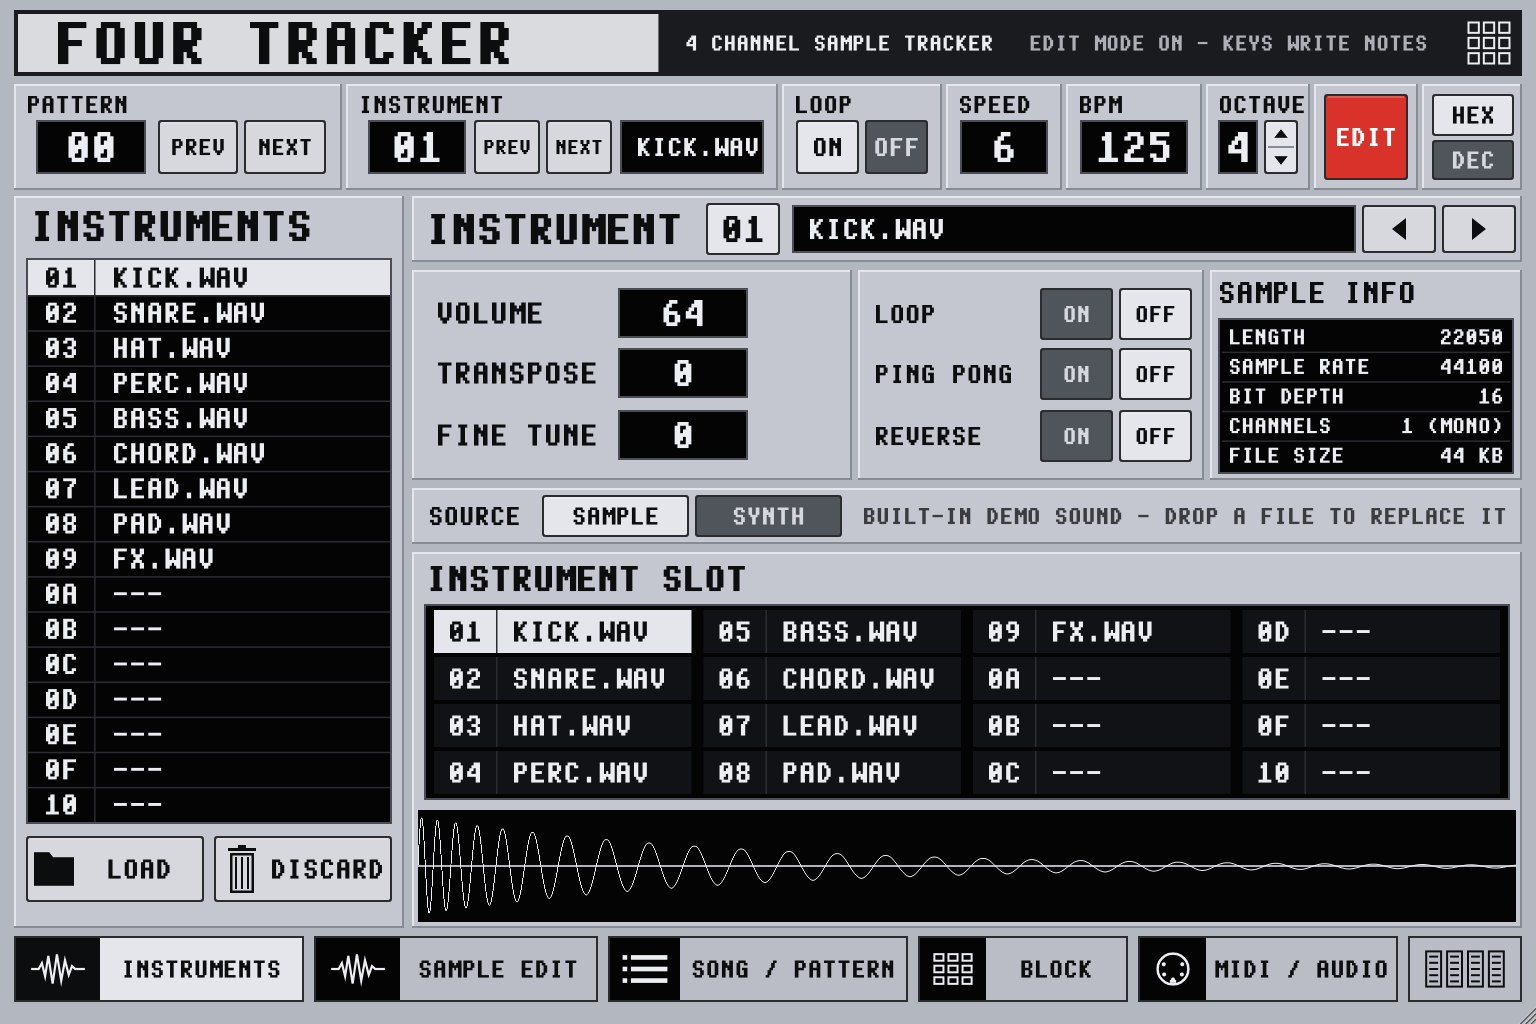
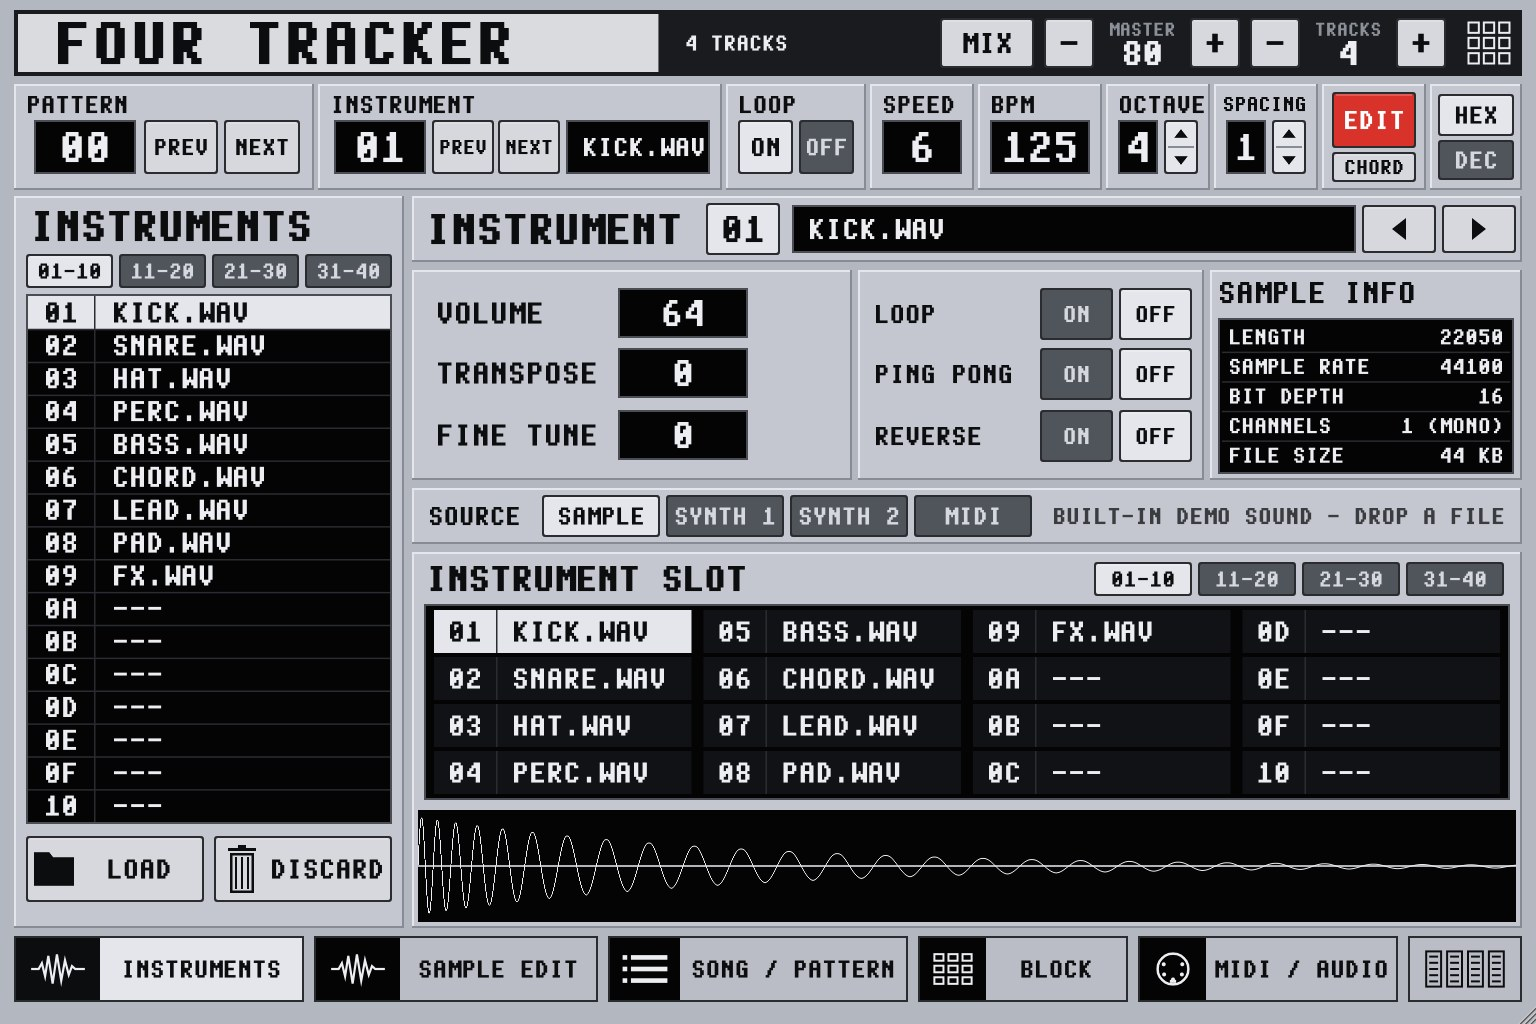
Add files via upload

Changed region(s): [[0.0312, 0.0, 0.9688, 0.1875], [0.0, 0.25, 0.2812, 0.7812], [0.375, 0.4688, 1.0, 0.5938]]

diff --git a/index.html b/index.html
@@ -392,7 +392,7 @@ footer .wrap { display: grid; gap: 8px; }
             <span class="cell">ENTER &nbsp;WRITE AT CURSOR</span>
             <span class="cell">POP OUT &nbsp;CHART WINDOW</span>
           </div>
-          <p><b>Also new:</b> the optional <a href="#pattern-maker">PATTERN MAKER</a> (beats, basslines and arps for LOAD PATTERN) and <a href="#pattern-maker">PATTERN MANAGER</a> (a whole song from a list of patterns, no DAW needed), a 16-track MIXER (Shift+M or MIX) with peak meters, CLIP lamps that light when a track goes into the red, and a fader for every track. SAVE on Sample Edit saves a sample as WAV or AIFF (your MIX and RE-SAMPLE loops, with their loop points), and the sample pack now has 44 loops: DnB, breakbeats, techno and house beats, basslines, arps and chords, tempo-exact and free to use (CC0). From v0.5.4: TRANSPOSE TRACK (Shift / Ctrl + 1 / 2) and the VST effects saved in the module.</p>
+          <p><b>Also new:</b> <b>64 instrument slots</b> (four banks of 16, so LOAD PATTERN has room for a pattern's sounds), the optional <a href="#pattern-maker">PATTERN MAKER</a> (beats, basslines and arps for LOAD PATTERN, now with 16 lanes, a SLICER for long samples, and REC to play a pattern in on MIDI pads or keys to a metronome) and <a href="#pattern-maker">PATTERN MANAGER</a> (a whole song from a list of patterns, no DAW needed), a 16-track MIXER (Shift+M or MIX) with peak meters, CLIP lamps that light when a track goes into the red, and a fader for every track. SAVE on Sample Edit saves a sample as WAV or AIFF (your MIX and RE-SAMPLE loops, with their loop points), and the sample pack now has 44 loops: DnB, breakbeats, techno and house beats, basslines, arps and chords, tempo-exact and free to use (CC0). From v0.5.4: TRANSPOSE TRACK (Shift / Ctrl + 1 / 2) and the VST effects saved in the module.</p>
         </div>
         <a class="btn btn-red js-download" href="#download"><span class="btn-text">DOWNLOAD<small><span class="js-version">v0.5.5</span> · Windows · free</small></span></a>
       </div>
@@ -537,7 +537,7 @@ footer .wrap { display: grid; gap: 8px; }
         <article class="panel feature">
           <span class="cell">S ▸ LOOP ◂ E</span>
           <h3>Sample editor</h3>
-          <p>Start, end and loop points, ping-pong and reverse, cut, paste, fades, normalize and OctaMED-style MIX of two samples. Ctrl+A / C / X / V. 16 instrument slots.</p>
+          <p>Start, end and loop points, ping-pong and reverse, cut, paste, fades, normalize and OctaMED-style MIX of two samples. Ctrl+A / C / X / V. 64 instrument slots in four banks of 16.</p>
         </article>
         <article class="panel feature">
           <span class="cell">CTRL+F3 F4 F5</span>
@@ -561,7 +561,7 @@ footer .wrap { display: grid; gap: 8px; }
       </div>
       <div class="shots">
         <figure class="shot"><img src="images/tracks.jpg" alt="Four Tracker main view with channel strips, VST effect lists and the pattern." loading="lazy" width="1536" height="1024"><figcaption><b>TRACKS</b>1 to 16 tracks with level, pan, pitch and VST effects.</figcaption></figure>
-        <figure class="shot"><img src="images/instruments.jpg" alt="Instruments page with the sample list and settings." loading="lazy" width="1536" height="1024"><figcaption><b>INSTRUMENTS</b>16 slots, volume, transpose, loop.</figcaption></figure>
+        <figure class="shot"><img src="images/instruments.jpg" alt="Instruments page with the sample list and settings." loading="lazy" width="1536" height="1024"><figcaption><b>INSTRUMENTS</b>64 slots in four banks, volume, transpose, loop.</figcaption></figure>
         <figure class="shot"><img src="images/sample-edit.jpg" alt="Sample editor with a waveform, markers and edit tools." loading="lazy" width="1536" height="1024"><figcaption><b>SAMPLE EDIT</b>Markers, loops, fades and zoom.</figcaption></figure>
         <figure class="shot"><img src="images/song-pattern.jpg" alt="Song and pattern page with transport and module buttons." loading="lazy" width="1536" height="1024"><figcaption><b>SONG / PATTERN</b>Start, stop, new, load and save modules.</figcaption></figure>
         <figure class="shot"><img src="images/block.jpg" alt="Block page with track and block operations." loading="lazy" width="1536" height="1024"><figcaption><b>BLOCK</b>Cut, copy, paste tracks and patterns.</figcaption></figure>
@@ -693,17 +693,32 @@ footer .wrap { display: grid; gap: 8px; }
         <p>Two small programs of their own: one makes beats, basslines and arps for you, the other plays a whole song. Both are optional: tick them in the installer if you want them. Four Tracker itself doesn't change.</p>
       </div>
       <div class="download-grid">
-        <figure class="shot"><img src="images/pattern-maker.jpg" alt="Four Tracker Pattern Maker: style, BPM, key and scale at the top, eight lanes of steps from kick to arp below." loading="lazy" width="1400" height="900"><figcaption><b>PATTERN MAKER</b>A drum &amp; bass pattern at 174 BPM on eight lanes.</figcaption></figure>
+        <figure class="shot"><img src="images/pattern-maker.jpg" alt="Four Tracker Pattern Maker: style, BPM, key and scale at the top, the lanes from kick to arp in the middle, and the BLANK, REC, COUNT-IN, METRO, DOUBLE and INPUT buttons below." loading="lazy" width="1400" height="900"><figcaption><b>PATTERN MAKER</b>A drum &amp; bass pattern at 174 BPM, with REC and the pads below.</figcaption></figure>
         <div class="panel dl-card">
-          <h3>FOUR TRACKER PATTERN MAKER <span class="dim">v1.0.0</span></h3>
+          <h3>FOUR TRACKER PATTERN MAKER <span class="dim">v1.4.2</span></h3>
           <p>Pick a style, press GENERATE, and eight lanes fill up with sounds from the sample pack: kick, snare, clap, closed and open hat, percussion, bass and arp. Click the steps to change them, set key, scale, swing and how busy it is, make one lane again with NEW, and hear it with PLAY. SAVE PATTERN writes a .ftpat with its sounds, and in Four Tracker LOAD PATTERN puts it into your song.</p>
+          <p>Or start from nothing: <b>BLANK</b> empties the lanes, <b>REC</b> counts you in with one bar of the metronome, and you play the pattern in on a MIDI pad controller or keyboard. Every hit lands on the nearest 16th, round and round, so you can add the kick, then the snare, then the hats. <b>DOUBLE</b> makes 1 bar 2, and 2 bars 4.</p>
           <dl class="spec">
             <dt>Styles</dt><dd>House, techno, drum &amp; bass, jungle, breakbeat, electro, hip hop, trance, italo disco, ambient</dd>
+            <dt>Lanes</dt><dd>16: the style's 8 (KICK/SLICE ... ARP/SLICE) and 8 of your own (EMPTY/SLICE 9-16), in two tabs</dd>
+            <dt>Record</dt><dd>REC with a 1 bar count-in, METRO, VELOCITY, UNDO, DOUBLE. INPUT: DRUM PADS (pads 1-16, e.g. an Arturia BeatStep) or KEYBOARD (drums on the General MIDI keys, bass or arp on the rest), LEARN for your own pads</dd>
             <dt>Saves</dt><dd>.ftpat for SONG / PATTERN &gt; LOAD PATTERN, with the sounds</dd>
             <dt>Get it</dt><dd>In the Four Tracker installer <span class="js-version">v0.5.5</span>: tick Pattern Maker under "Choose what to install" (Windows) or "Customize" (Mac)</dd>
             <dt>Price</dt><dd>Free</dd>
           </dl>
           <div><a class="btn btn-red js-download" href="#download"><span class="btn-text">GET IT WITH FOUR TRACKER<small class="js-filename">FourTracker-Setup-0.5.5-share-fx.exe</small></span></a></div>
+        </div>
+      </div>
+      <div class="download-grid fx-second">
+        <figure class="shot"><img src="images/slicer.jpg" alt="The Pattern Maker's SLICER: a breakbeat cut into 12 slices on the waveform, and 16 pads below, four of them ticked for the lanes." loading="lazy" width="1240" height="780"><figcaption><b>SLICER</b>A funky break cut at every hit, four slices on their way to lanes 9-12.</figcaption></figure>
+        <div class="panel dl-card">
+          <h3>THE SLICER <span class="dim">in the Pattern Maker</span></h3>
+          <p>Load a long sample (voices, a beat, a whole loop) and the SLICER cuts it into slices: at every hit (AUTO, with a sensitivity), on a grid of the BPM (GRID: 1 bar down to a 16th), or by hand. It finds the BPM itself, from the file name or from the loop's length, and puts the Pattern Maker at the same tempo. Play the slices on your pads or keys, tick the ones you want, and GENERATE SAMPLE LIST puts them on the lanes as WAVs of their own.</p>
+          <dl class="spec">
+            <dt>Slices</dt><dd>Up to 64, on pages of 16 pads; double-click to cut, drag to move a cut, right-click to remove one</dd>
+            <dt>Onto</dt><dd>The empty lanes 9-16 first; more than 8 go on from lane 16 down, so the kick and the first sounds stay. Any lane can take a sample of your own again</dd>
+            <dt>Metronome</dt><dd>Its own sound, not a lane: it counts in and clicks even with all 16 lanes full, and is never saved</dd>
+          </dl>
         </div>
       </div>
       <div class="download-grid fx-second">
